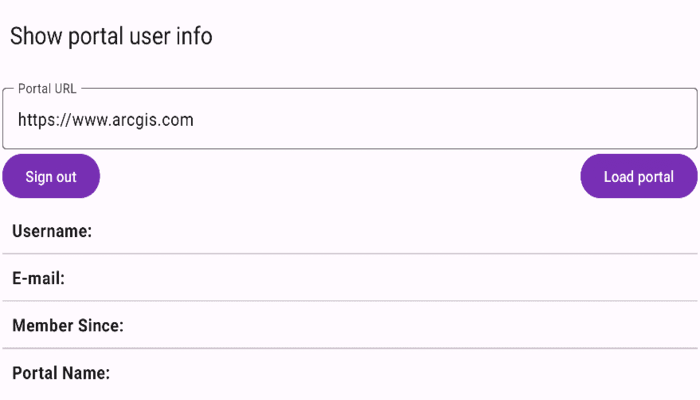
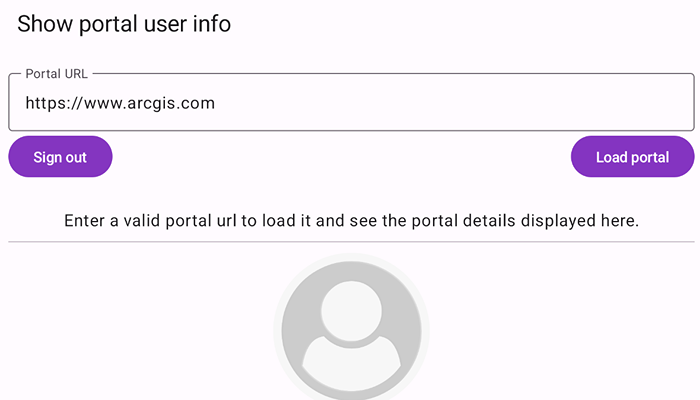
more UI feedback

diff --git a/show-portal-user-info/src/main/java/com/esri/arcgismaps/sample/showportaluserinfo/screens/MainScreen.kt b/show-portal-user-info/src/main/java/com/esri/arcgismaps/sample/showportaluserinfo/screens/MainScreen.kt
@@ -26,8 +26,9 @@ import androidx.compose.foundation.layout.Row
 import androidx.compose.foundation.layout.fillMaxSize
 import androidx.compose.foundation.layout.fillMaxWidth
 import androidx.compose.foundation.layout.padding
+import androidx.compose.foundation.layout.size
 import androidx.compose.foundation.lazy.LazyColumn
-import androidx.compose.foundation.shape.RoundedCornerShape
+import androidx.compose.foundation.shape.CircleShape
 import androidx.compose.foundation.text.KeyboardActions
 import androidx.compose.foundation.text.KeyboardOptions
 import androidx.compose.material3.Button
@@ -47,6 +48,7 @@ import androidx.compose.ui.ExperimentalComposeUiApi
 import androidx.compose.ui.Modifier
 import androidx.compose.ui.draw.clip
 import androidx.compose.ui.graphics.asImageBitmap
+import androidx.compose.ui.layout.ContentScale
 import androidx.compose.ui.platform.LocalFocusManager
 import androidx.compose.ui.platform.LocalSoftwareKeyboardController
 import androidx.compose.ui.text.font.FontWeight
@@ -86,13 +88,15 @@ fun MainScreen(sampleName: String, application: Application) {
                     onSignOut = authenticationAppViewModel::signOut,
                     onLoadPortal = authenticationAppViewModel::loadPortal
                 )
-                InfoScreen(infoText = infoText,
+                InfoScreen(
+                    infoText = infoText,
                     username = authenticationAppViewModel.portalUserName.collectAsState().value,
                     email = authenticationAppViewModel.emailID.collectAsState().value,
                     creationDate = authenticationAppViewModel.userCreationDate.collectAsState().value,
                     portalName = authenticationAppViewModel.portalName.collectAsState().value,
                     userThumbnail = authenticationAppViewModel.userThumbnail.collectAsState().value,
-                    isLoading = isLoading)
+                    isLoading = isLoading
+                )
                 // display a dialog if the sample encounters an error
                 authenticationAppViewModel.messageDialogVM.apply {
                     if (dialogStatus) {
@@ -186,7 +190,7 @@ private fun InfoScreen(
     email: String,
     creationDate: String,
     portalName: String,
-    userThumbnail: Bitmap?,
+    userThumbnail: Bitmap,
     isLoading: Boolean
 ) {
     Box(
@@ -207,15 +211,20 @@ private fun InfoScreen(
                     )
                 }
                 Divider()
-                Row(modifier = Modifier.padding(10.dp)) {
-                    Text(text = "Thumbnail: ", fontWeight = FontWeight.Bold)
-                    if (userThumbnail != null) {
-                        Image(
-                            bitmap = userThumbnail.asImageBitmap(),
-                            contentDescription = "User Thumbnail",
-                            modifier = Modifier.clip(RoundedCornerShape(10.dp))
-                        )
-                    }
+                Row(
+                    modifier = Modifier
+                        .padding(10.dp)
+                        .fillMaxWidth(),
+                    horizontalArrangement = Arrangement.Center
+                ) {
+                    Image(
+                        bitmap = userThumbnail.asImageBitmap(),
+                        contentDescription = "User Thumbnail",
+                        contentScale = ContentScale.Crop,
+                        modifier = Modifier
+                            .clip(CircleShape)
+                            .size(150.dp)
+                    )
                 }
                 Divider()
                 Row(modifier = Modifier.padding(10.dp)) {

diff --git a/show-portal-user-info/src/main/java/com/esri/arcgismaps/sample/showportaluserinfo/components/AuthenticationAppViewModel.kt b/show-portal-user-info/src/main/java/com/esri/arcgismaps/sample/showportaluserinfo/components/AuthenticationAppViewModel.kt
@@ -21,7 +21,6 @@ package com.esri.arcgismaps.sample.showportaluserinfo.components
 import android.app.Application
 import android.graphics.Bitmap
 import android.graphics.BitmapFactory
-import android.util.Log
 import androidx.lifecycle.AndroidViewModel
 import androidx.lifecycle.viewModelScope
 import com.arcgismaps.ArcGISEnvironment
@@ -71,8 +70,8 @@ class AuthenticationAppViewModel(application: Application) : AndroidViewModel(ap
 
     private val defaultBitmap = BitmapFactory.decodeResource(application.resources, R.drawable.user)
 
-    private val _userThumbnail: MutableStateFlow<Bitmap?> = MutableStateFlow(defaultBitmap)
-    val userThumbnail: StateFlow<Bitmap?> = _userThumbnail.asStateFlow()
+    private val _userThumbnail: MutableStateFlow<Bitmap> = MutableStateFlow(defaultBitmap)
+    val userThumbnail: StateFlow<Bitmap> = _userThumbnail.asStateFlow()
 
     private val _infoText: MutableStateFlow<String> = MutableStateFlow(startInfoText)
     val infoText: StateFlow<String> = _infoText.asStateFlow()
@@ -95,6 +94,7 @@ class AuthenticationAppViewModel(application: Application) : AndroidViewModel(ap
         _emailID.value = ""
         _userCreationDate.value = ""
         _portalName.value = ""
+        _userThumbnail.value = defaultBitmap
     }
 
     fun loadPortal() = viewModelScope.launch {
